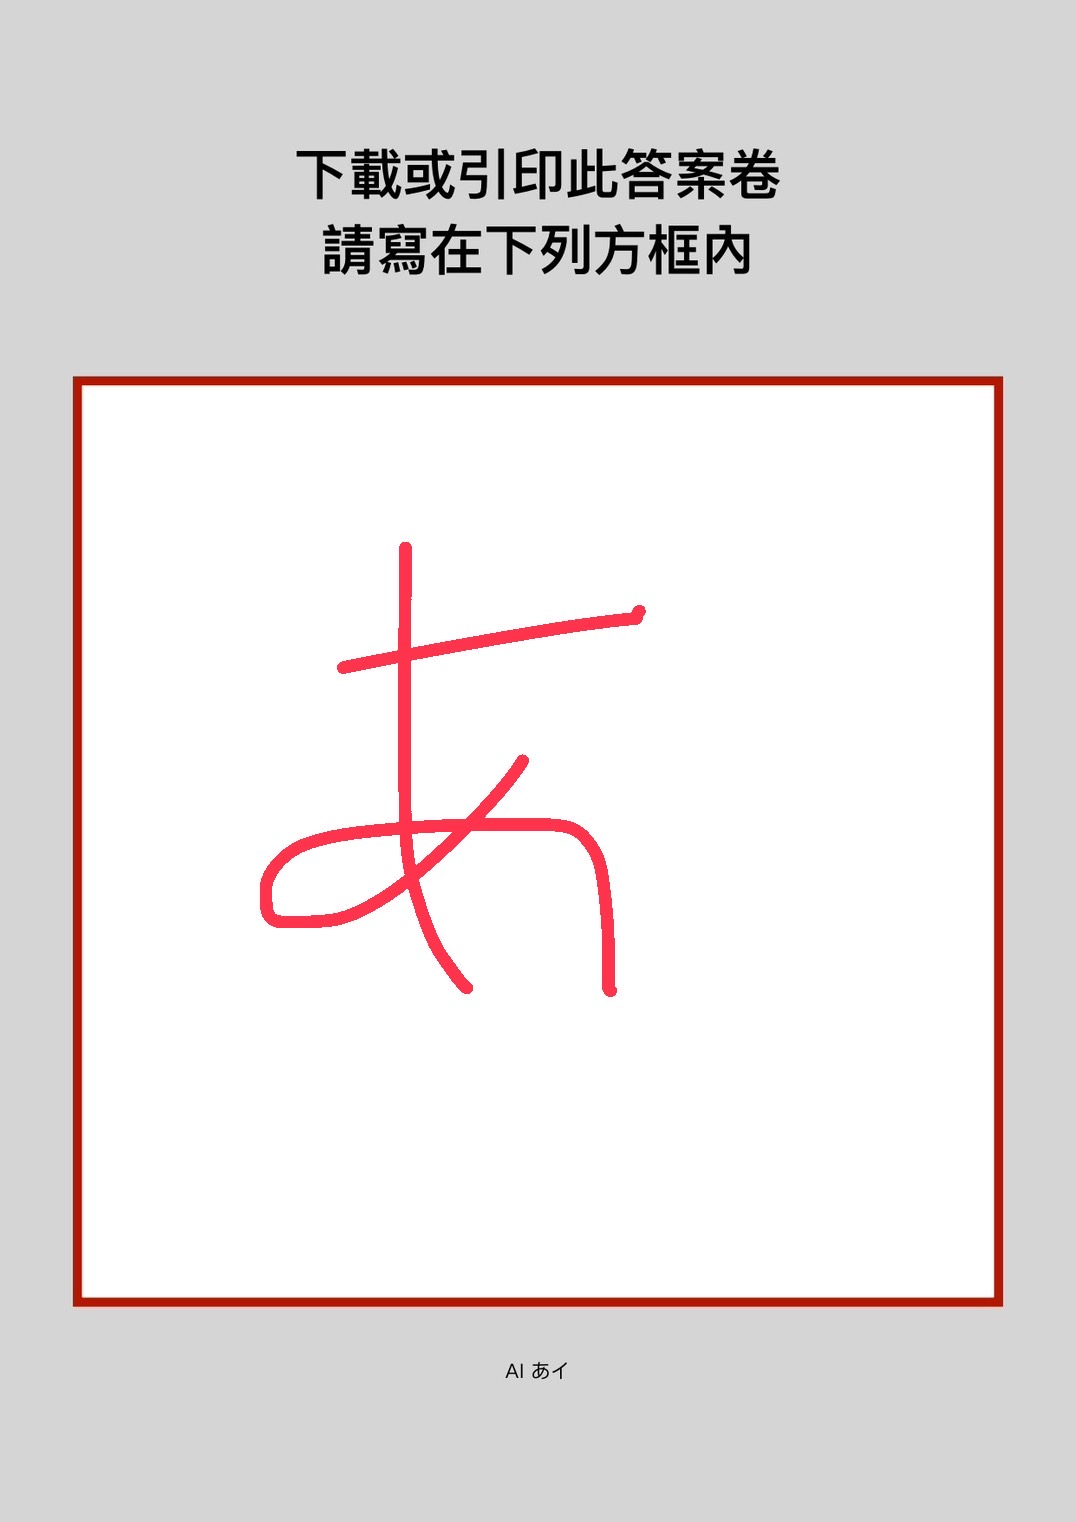
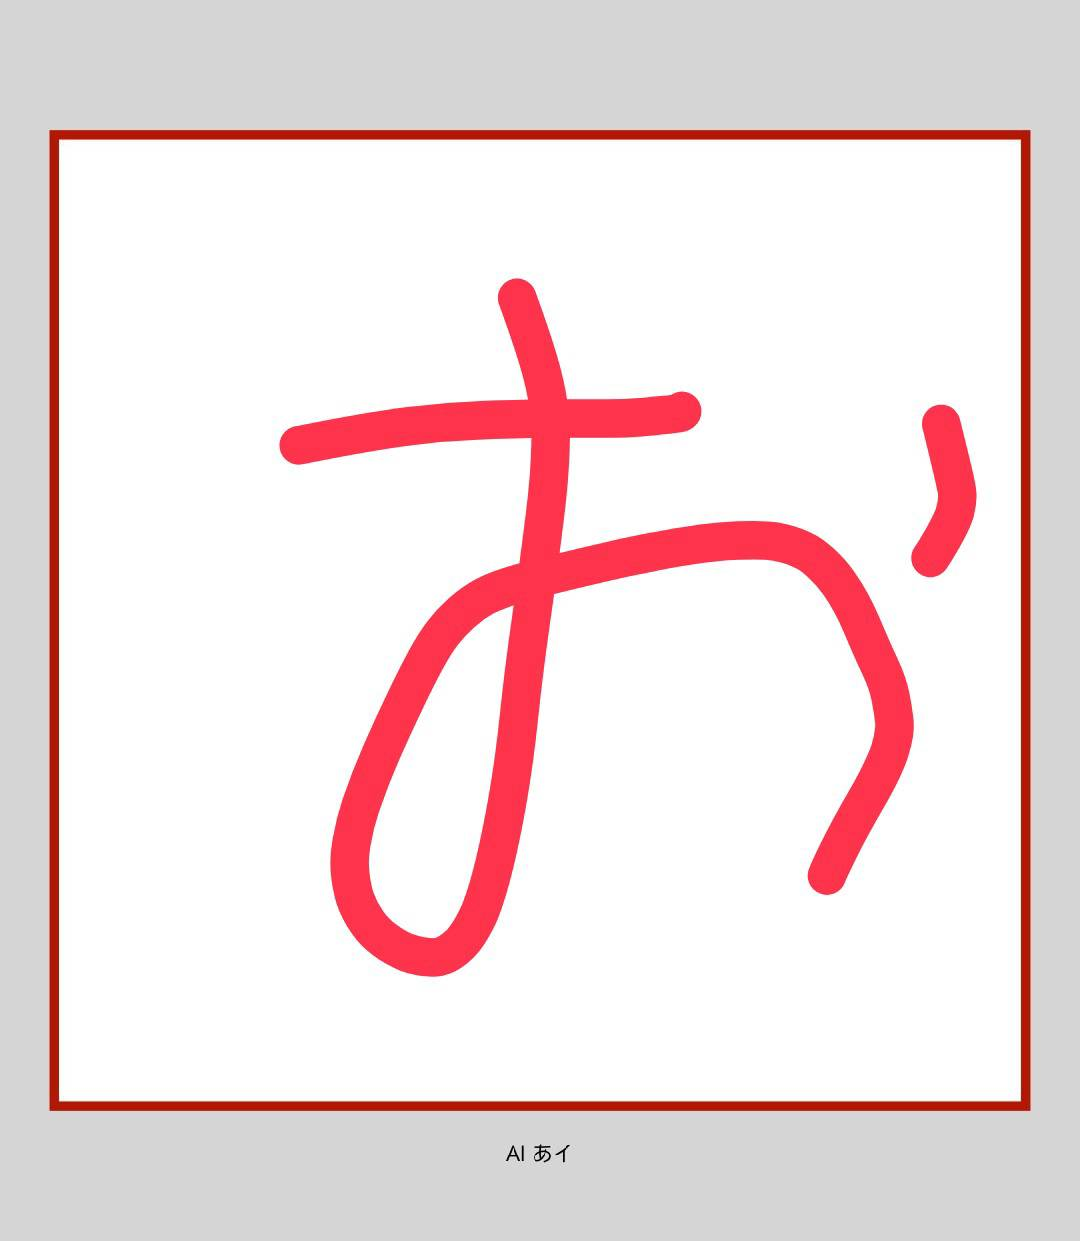
day2

Changed region(s): [[0.0307, 0.0919, 0.9814, 0.9492]]

diff --git a/app.py b/app.py
@@ -35,16 +35,22 @@ def handle_something(event):
             messages=[]
             messages.append(TextSendMessage(text='歡迎使用AIあイ'))
             messages.append(TextSendMessage(text='以下是使用說明的影片'))
-            messages.append(ImageSendMessage(original_content_url='https://imgur.com/PoQnV4N.png', preview_image_url='https://imgur.com/PoQnV4N.png'))
             line_bot_api.reply_message(event.reply_token, messages)  
         elif '平假名測驗' in recrive_text:
-            hiragana_test(event)
+            messages=[]
+            messages.append(TextSendMessage(text='下載此答案卷\n請寫在方框內'))
+            messages.append(ImageSendMessage(original_content_url='https://imgur.com/0I7lHKR.png', preview_image_url='https://imgur.com/0I7lHKR.png'))
+            hiragana_test(event, messages)
         elif '片假名測驗' in recrive_text:
-            katakana_test(event)
+            messages=[]
+            messages.append(TextSendMessage(text='下載此答案卷\n請寫在方框內'))
+            messages.append(ImageSendMessage(original_content_url='https://imgur.com/0I7lHKR.png', preview_image_url='https://imgur.com/0I7lHKR.png'))
+            katakana_test(event, messages)
         else:
             messages=[]
             messages.append(StickerSendMessage(package_id=789, sticker_id=10882))
-            messages.append(TextSendMessage(text='抱歉我聽不懂你說的意思~\n可以用其他方式再說一次嗎?'))
+            messages.append(TextSendMessage(text='抱歉我聽不懂你說的意思~'))
+            messages.append(TextSendMessage(text='可以用其他方式再說一次嗎?'))
             line_bot_api.reply_message(event.reply_token, messages)
     elif event.message.type=='sticker':
         receive_sticker_id=event.message.sticker_id
@@ -55,6 +61,8 @@ def handle_something(event):
         with open('temp_image.png', 'wb') as fd:
             for chunk in message_content.iter_content():
                 fd.write(chunk)
+    
+        
 
 # run app
 if __name__ == "__main__":

diff --git a/actions/service.py b/actions/service.py
@@ -3,7 +3,7 @@ from urllib.parse import parse_qsl, parse_qs
 import datetime
 from line_chatbot_api import *
 
-def hiragana_test(event):
+def hiragana_test(event,messages):
     hiragana = dict(a='あ',i='い',u='う',e='え',o='お',
                     ka='か',ki='き',ku='く',ke='け',ko='こ',
                     sa='さ',si='し',su='す',se='せ',so='そ',
@@ -14,12 +14,11 @@ def hiragana_test(event):
                     ya='ya',yu='ゆ',yo='よ',
                     wa='わ',wo='を',n='ん')
     key = random.choice(list(hiragana.keys()))
-    messages=[]
-    messages.append(TextSendMessage(text=f"請寫出{key}"))
+    messages.append(TextSendMessage(text=f"請寫出{key}的平假名"))
     line_bot_api.reply_message(event.reply_token, messages)
+    return hiragana[key] # return the answer
     
-
-def katakana_test(event):
+def katakana_test(event,messages):
     katakana = dict(a='ア',i='イ',u='ウ',e='エ',o='オ',
                     ka='カ',ki='キ',ku='ク',ke='ケ',ko='コ',
                     sa='サ',si='シ',su='ス',se='セ',so='ソ',
@@ -30,7 +29,7 @@ def katakana_test(event):
                     ya='ヤ',yu='ユ',yo='ヨ',
                     wa='ワ',wo='ヲ',n='ン')
     key = random.choice(list(katakana.keys()))
-    messages=[]
-    messages.append(TextSendMessage(text=f"請寫出{key}"))
+    messages.append(TextSendMessage(text=f"請寫出{key}的片假名"))
     line_bot_api.reply_message(event.reply_token, messages)
+    return katakana[key] # return the answer
     
